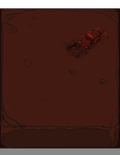
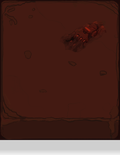
更新 格子。修改 X 预制体位置。

diff --git a/Code/Prometheus/Assets/Art/Fx/Scripts/Rule/RuleBox.cs b/Code/Prometheus/Assets/Art/Fx/Scripts/Rule/RuleBox.cs
@@ -32,6 +32,7 @@ public class RuleBox {
 		"box_d_2",
 		"box_d_3",
 		"box_d_4",
+		"box_d_5",
 	
 	};
 
@@ -71,10 +72,15 @@ public class RuleBox {
 
 	public static string GetUnExplored(int row, int clumn) {
 
-		if(Random.value < 0.95f)
+		float r_value = Random.value;
+
+		if(r_value < 0.93f)
 			return box_d_list[Random.Range(0, 2)];
 
-		return box_d_list[Random.Range(2, 5)];
+		if(r_value < 0.99)
+			return box_d_list[Random.Range(2, 5)];
+
+		return box_d_list[Random.Range(5, 6)];
 
 	}
 
